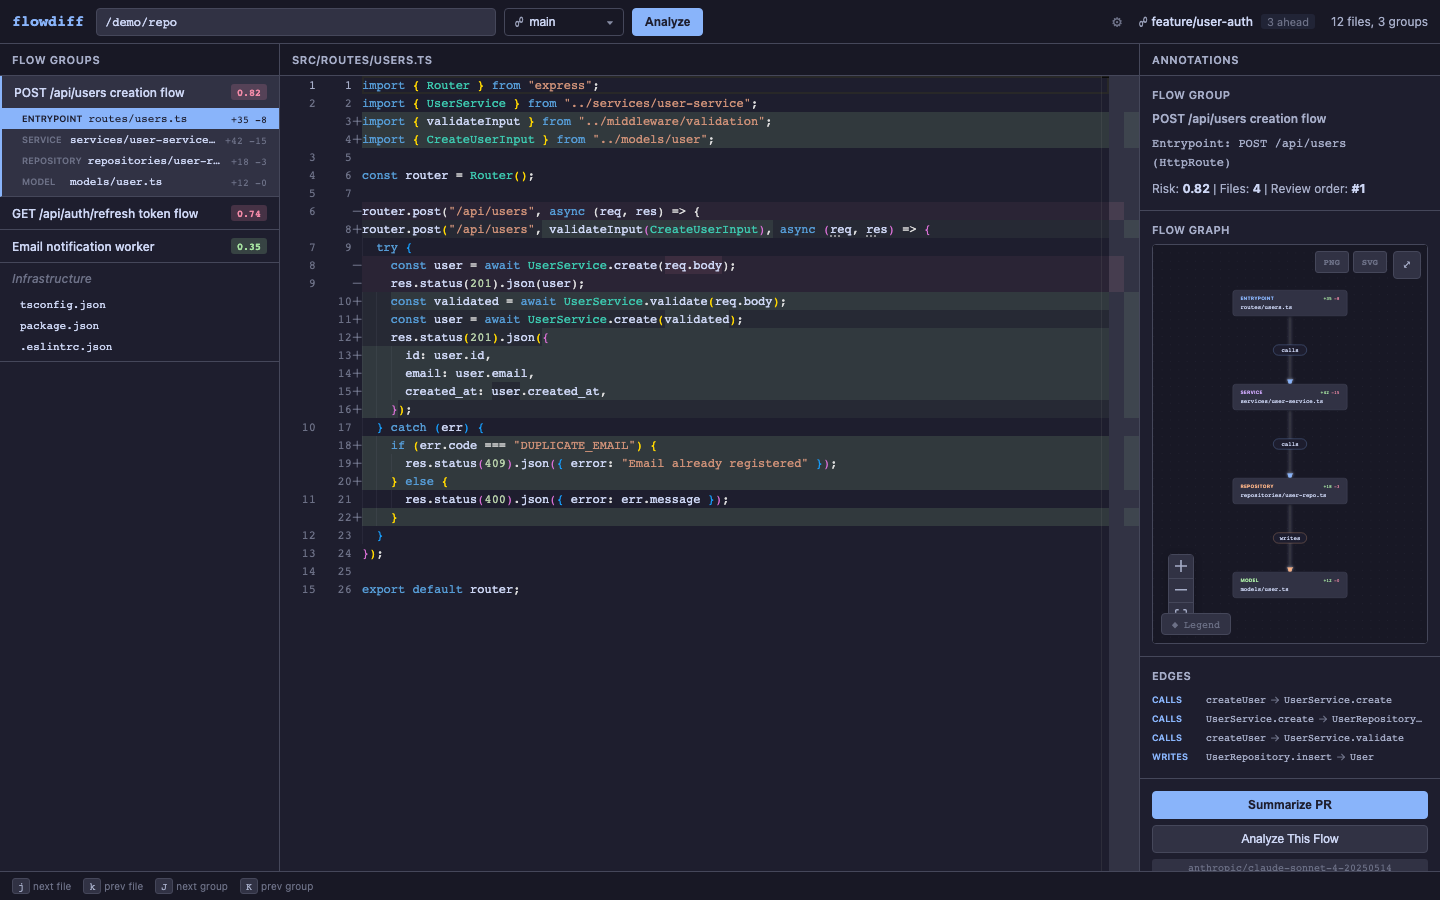
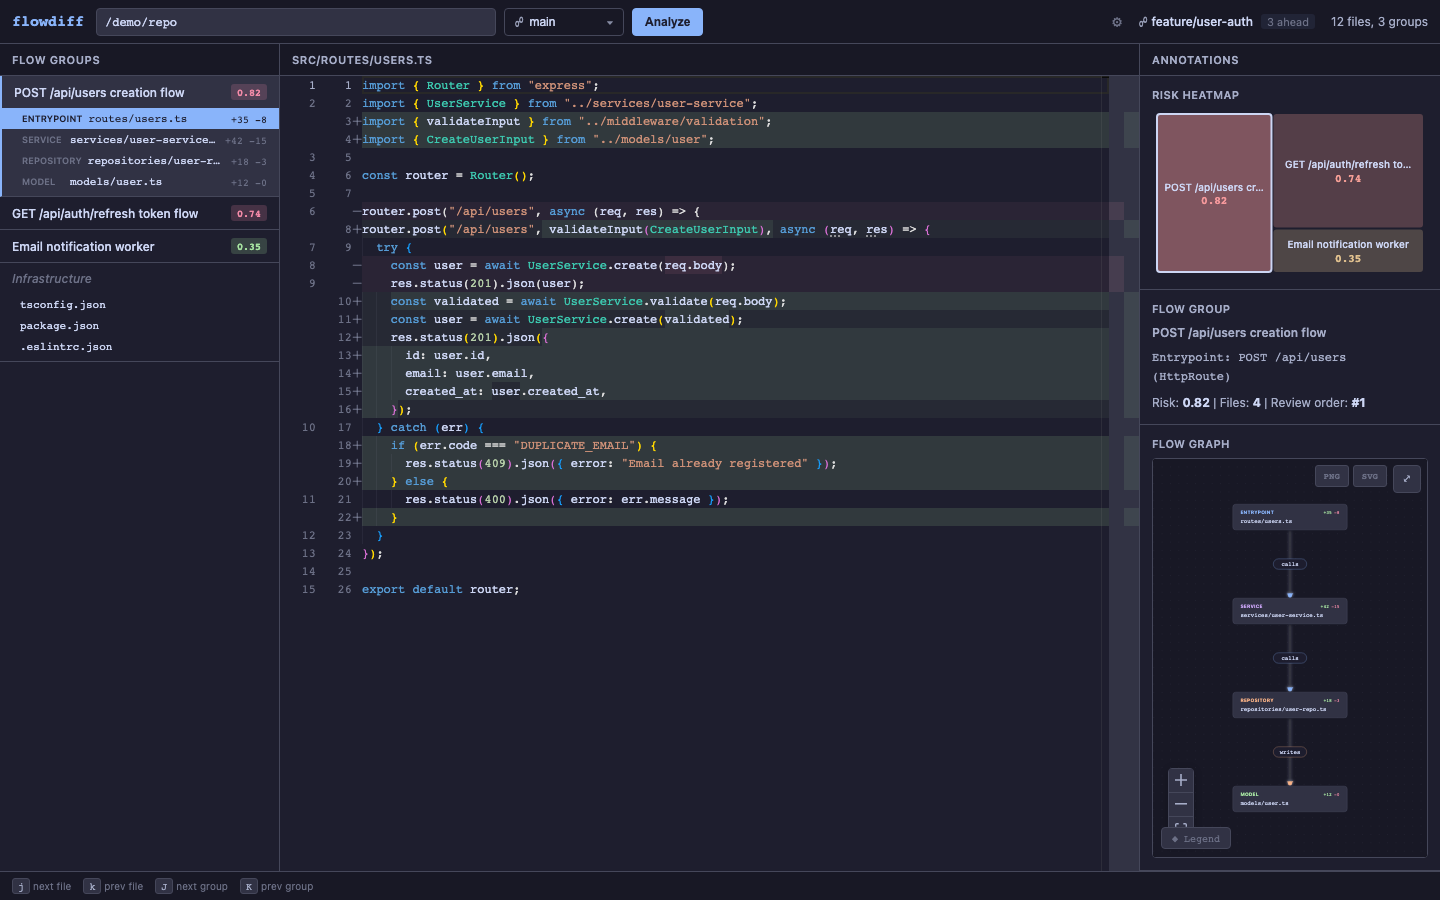
Add risk heatmap treemap visualization in right panel (Phase 6)
Squarified treemap SVG component shows all flow groups sized by total
line changes and colored by risk score using Catppuccin gradient
(green → peach → red). Click selects group, hover shows tooltip.
Adaptive labels hidden for small cells. All 50 Playwright tests pass.

Changed region(s): [[0.7812, 0.0933, 1.0, 0.4978], [0.7812, 0.7467, 1.0, 0.9644], [0.7812, 0.4978, 1.0, 0.7467]]

diff --git a/crates/flowdiff-tauri/ui/src/components/RiskHeatmap.tsx b/crates/flowdiff-tauri/ui/src/components/RiskHeatmap.tsx
@@ -1,0 +1,231 @@
+import { useMemo, useState } from "react";
+import type { FlowGroup } from "../types";
+
+interface RiskHeatmapProps {
+  groups: FlowGroup[];
+  selectedGroupId: string | null;
+  onSelectGroup: (group: FlowGroup) => void;
+}
+
+interface TreemapRect {
+  group: FlowGroup;
+  x: number;
+  y: number;
+  w: number;
+  h: number;
+}
+
+/** Total line changes for a group — used as treemap weight. */
+function groupWeight(group: FlowGroup): number {
+  let total = 0;
+  for (const f of group.files) {
+    total += f.changes.additions + f.changes.deletions;
+  }
+  return Math.max(total, 1); // Minimum weight of 1 so empty groups still appear
+}
+
+/**
+ * Interpolate risk score [0, 1] to an RGB color string.
+ * Uses Catppuccin palette: green (#a6e3a1) → peach (#fab387) → red (#f38ba8).
+ */
+function riskColor(score: number): string {
+  const clamped = Math.max(0, Math.min(1, score));
+  let r: number, g: number, b: number;
+  if (clamped <= 0.5) {
+    const t = clamped / 0.5;
+    r = Math.round(166 + (250 - 166) * t);
+    g = Math.round(227 + (179 - 227) * t);
+    b = Math.round(161 + (135 - 161) * t);
+  } else {
+    const t = (clamped - 0.5) / 0.5;
+    r = Math.round(250 + (243 - 250) * t);
+    g = Math.round(179 + (139 - 179) * t);
+    b = Math.round(135 + (168 - 135) * t);
+  }
+  return `rgb(${r}, ${g}, ${b})`;
+}
+
+/**
+ * Squarified treemap layout.
+ * Places items as close to square as possible within the given rectangle.
+ */
+function squarify(
+  items: { group: FlowGroup; weight: number }[],
+  x: number,
+  y: number,
+  w: number,
+  h: number,
+): TreemapRect[] {
+  if (items.length === 0 || w <= 0 || h <= 0) return [];
+  if (items.length === 1) {
+    return [{ group: items[0].group, x, y, w, h }];
+  }
+
+  const total = items.reduce((s, g) => s + g.weight, 0);
+  if (total === 0) return [];
+
+  const sorted = [...items].sort((a, b) => b.weight - a.weight);
+  const isWide = w >= h;
+
+  // Find best strip split: greedily add items while aspect ratio improves
+  let bestWorstRatio = Infinity;
+  let bestSplit = 1;
+
+  for (let i = 1; i <= sorted.length; i++) {
+    const stripWeight = sorted.slice(0, i).reduce((s, g) => s + g.weight, 0);
+    const fraction = stripWeight / total;
+    const stripLength = isWide ? w * fraction : h * fraction;
+    const crossLength = isWide ? h : w;
+
+    let worstRatio = 0;
+    for (let j = 0; j < i; j++) {
+      const cellFraction = sorted[j].weight / stripWeight;
+      const cellLength = crossLength * cellFraction;
+      if (cellLength > 0 && stripLength > 0) {
+        const ratio = Math.max(stripLength / cellLength, cellLength / stripLength);
+        worstRatio = Math.max(worstRatio, ratio);
+      }
+    }
+
+    if (worstRatio <= bestWorstRatio) {
+      bestWorstRatio = worstRatio;
+      bestSplit = i;
+    } else {
+      break;
+    }
+  }
+
+  const topItems = sorted.slice(0, bestSplit);
+  const restItems = sorted.slice(bestSplit);
+  const topWeight = topItems.reduce((s, g) => s + g.weight, 0);
+  const fraction = topWeight / total;
+
+  const rects: TreemapRect[] = [];
+
+  if (isWide) {
+    const stripW = w * fraction;
+    let cy = y;
+    for (const item of topItems) {
+      const cellH = h * (item.weight / topWeight);
+      rects.push({ group: item.group, x, y: cy, w: stripW, h: cellH });
+      cy += cellH;
+    }
+    if (restItems.length > 0) {
+      rects.push(...squarify(restItems, x + stripW, y, w - stripW, h));
+    }
+  } else {
+    const stripH = h * fraction;
+    let cx = x;
+    for (const item of topItems) {
+      const cellW = w * (item.weight / topWeight);
+      rects.push({ group: item.group, x: cx, y, w: cellW, h: stripH });
+      cx += cellW;
+    }
+    if (restItems.length > 0) {
+      rects.push(...squarify(restItems, x, y + stripH, w, h - stripH));
+    }
+  }
+
+  return rects;
+}
+
+/** Short name for display — truncate long group names. */
+function truncateName(name: string, maxLen: number): string {
+  if (name.length <= maxLen) return name;
+  return name.slice(0, maxLen - 1) + "\u2026";
+}
+
+const CONTAINER_WIDTH = 268; // fits within 300px right panel with padding
+const CONTAINER_HEIGHT = 160;
+
+export default function RiskHeatmap({ groups, selectedGroupId, onSelectGroup }: RiskHeatmapProps) {
+  const [hoveredId, setHoveredId] = useState<string | null>(null);
+
+  const rects = useMemo(() => {
+    const items = groups.map((group) => ({
+      group,
+      weight: groupWeight(group),
+    }));
+    return squarify(items, 0, 0, CONTAINER_WIDTH, CONTAINER_HEIGHT);
+  }, [groups]);
+
+  if (groups.length === 0) return null;
+
+  return (
+    <div className="heatmap-container">
+      <svg
+        width={CONTAINER_WIDTH}
+        height={CONTAINER_HEIGHT}
+        viewBox={`0 0 ${CONTAINER_WIDTH} ${CONTAINER_HEIGHT}`}
+        className="heatmap-svg"
+      >
+        {rects.map((rect) => {
+          const isSelected = rect.group.id === selectedGroupId;
+          const isHovered = rect.group.id === hoveredId;
+          const color = riskColor(rect.group.risk_score);
+          const totalChanges = groupWeight(rect.group);
+          // Only show label if cell is big enough
+          const showLabel = rect.w > 50 && rect.h > 28;
+          const showScore = rect.w > 36 && rect.h > 16;
+
+          return (
+            <g
+              key={rect.group.id}
+              className="heatmap-cell-group"
+              onClick={() => onSelectGroup(rect.group)}
+              onMouseEnter={() => setHoveredId(rect.group.id)}
+              onMouseLeave={() => setHoveredId(null)}
+              style={{ cursor: "pointer" }}
+            >
+              {/* Cell background */}
+              <rect
+                x={rect.x + 1}
+                y={rect.y + 1}
+                width={Math.max(rect.w - 2, 0)}
+                height={Math.max(rect.h - 2, 0)}
+                rx={3}
+                fill={color}
+                fillOpacity={isSelected ? 0.45 : isHovered ? 0.35 : 0.25}
+                stroke={isSelected ? "#cdd6f4" : isHovered ? color : "transparent"}
+                strokeWidth={isSelected ? 2 : 1.5}
+              />
+              {/* Group name */}
+              {showLabel && (
+                <text
+                  x={rect.x + rect.w / 2}
+                  y={rect.y + rect.h / 2 - 5}
+                  textAnchor="middle"
+                  dominantBaseline="middle"
+                  className="heatmap-label"
+                  fill="#cdd6f4"
+                >
+                  {truncateName(rect.group.name, Math.floor(rect.w / 6))}
+                </text>
+              )}
+              {/* Risk score */}
+              {showScore && (
+                <text
+                  x={rect.x + rect.w / 2}
+                  y={rect.y + rect.h / 2 + (showLabel ? 9 : 0)}
+                  textAnchor="middle"
+                  dominantBaseline="middle"
+                  className="heatmap-score"
+                  fill={color}
+                >
+                  {rect.group.risk_score.toFixed(2)}
+                </text>
+              )}
+              {/* Tooltip on hover */}
+              {isHovered && (
+                <title>
+                  {rect.group.name}
+{`Risk: ${rect.group.risk_score.toFixed(2)} | Files: ${rect.group.files.length} | Changes: +${totalChanges}`}
+                </title>
+              )}
+            </g>
+          );
+        })}
+      </svg>
+    </div>
+  );
+}

diff --git a/crates/flowdiff-tauri/ui/src/App.tsx b/crates/flowdiff-tauri/ui/src/App.tsx
@@ -16,6 +16,7 @@ import type {
 import { LLM_PROVIDERS, MODELS_BY_PROVIDER } from "./types";
 import DiffViewer from "./components/DiffViewer";
 import FlowGraph from "./components/FlowGraph";
+import RiskHeatmap from "./components/RiskHeatmap";
 import { MOCK_ANALYSIS, MOCK_DIFFS, MOCK_PASS1, MOCK_PASS2, MOCK_REPO_INFO, MOCK_LLM_SETTINGS, MOCK_REFINEMENT } from "./mock";
 
 /** Detect if running inside Tauri (vs plain browser for demo/testing). */
@@ -923,6 +924,17 @@ export default function App() {
         <aside className="panel panel-right">
           <div className="panel-header">Annotations</div>
           <div className="panel-body">
+            {/* Risk heatmap — always visible when analysis exists */}
+            {analysis && sortedGroups.length > 0 && (
+              <div className="annotation-section">
+                <h3>Risk Heatmap</h3>
+                <RiskHeatmap
+                  groups={sortedGroups}
+                  selectedGroupId={selectedGroup?.id ?? null}
+                  onSelectGroup={handleSelectGroup}
+                />
+              </div>
+            )}
             {selectedGroup && (
               <>
                 {/* Deterministic group info */}

diff --git a/crates/flowdiff-tauri/ui/src/styles.css b/crates/flowdiff-tauri/ui/src/styles.css
@@ -1530,3 +1530,37 @@ body {
   border-left: 2px solid #cba6f7;
   padding-left: 18px;
 }
+
+/* ── Risk Heatmap (Treemap) ── */
+
+.heatmap-container {
+  display: flex;
+  justify-content: center;
+  padding: 4px 0;
+}
+
+.heatmap-svg {
+  display: block;
+  border-radius: 4px;
+  overflow: visible;
+}
+
+.heatmap-cell-group {
+  transition: opacity 0.12s ease;
+}
+
+.heatmap-label {
+  font-family: var(--font-sans);
+  font-size: 10px;
+  font-weight: 500;
+  pointer-events: none;
+  user-select: none;
+}
+
+.heatmap-score {
+  font-family: var(--font-mono);
+  font-size: 11px;
+  font-weight: 700;
+  pointer-events: none;
+  user-select: none;
+}

diff --git a/specs/diff-analyzer.md b/specs/diff-analyzer.md
@@ -698,7 +698,7 @@ flowdiff/
 
 ### Phase 6: Polish & Integration (Week 6-7)
 - [x] Beyond Compare launcher integration — `flowdiff launch --tool <tool> --group <group_id> --input <file>` command. Reads analysis JSON, finds the specified flow group, extracts old/new file contents from git refs (base_sha/head_sha from diff_source), writes to temp directories preserving directory structure, and spawns the diff tool for folder comparison. Supported tools: Beyond Compare (`bcompare`), Meld (`meld`), KDiff3 (`kdiff3`), VS Code (`code`), macOS FileMerge (`opendiff`). `file_content_at_ref()` added to git.rs for reading file content at any git ref. Falls back to working tree for head content when no head ref available. 8 new `file_content_at_ref` tests (existing file, missing file, specific commit, branch name, SHA, nested path, invalid ref, deleted file), 8 new CLI tests (launch parsing for all 5 tools, custom repo path, executable/display_name methods). All 1,108 tests pass
-- [ ] Risk heatmap visualization
+- [x] Risk heatmap visualization — squarified treemap in right panel (always visible when analysis loaded). `RiskHeatmap.tsx` component: SVG-based treemap where each group is a rectangle sized by total line changes (additions + deletions), colored by risk score using continuous Catppuccin gradient (green #a6e3a1 → peach #fab387 → red #f38ba8). Squarified layout algorithm produces near-square cells for readability. Interactive: click cell → selects group (same as left panel click), hover → tooltip with name/risk/files/changes, selected cell highlighted with white border + increased opacity. Labels show truncated group name + risk score (adaptive: hidden for small cells). Integrated at top of right panel above group details section. Uses no external dependencies (pure SVG + CSS). Catppuccin-themed styles in styles.css. All 50 Playwright tests pass, all Rust tests pass, tsc + Vite build clean
 - [ ] Flow replay mode
 - [ ] Performance optimization (rayon parallelism, caching)
 - [ ] Error handling and edge cases
